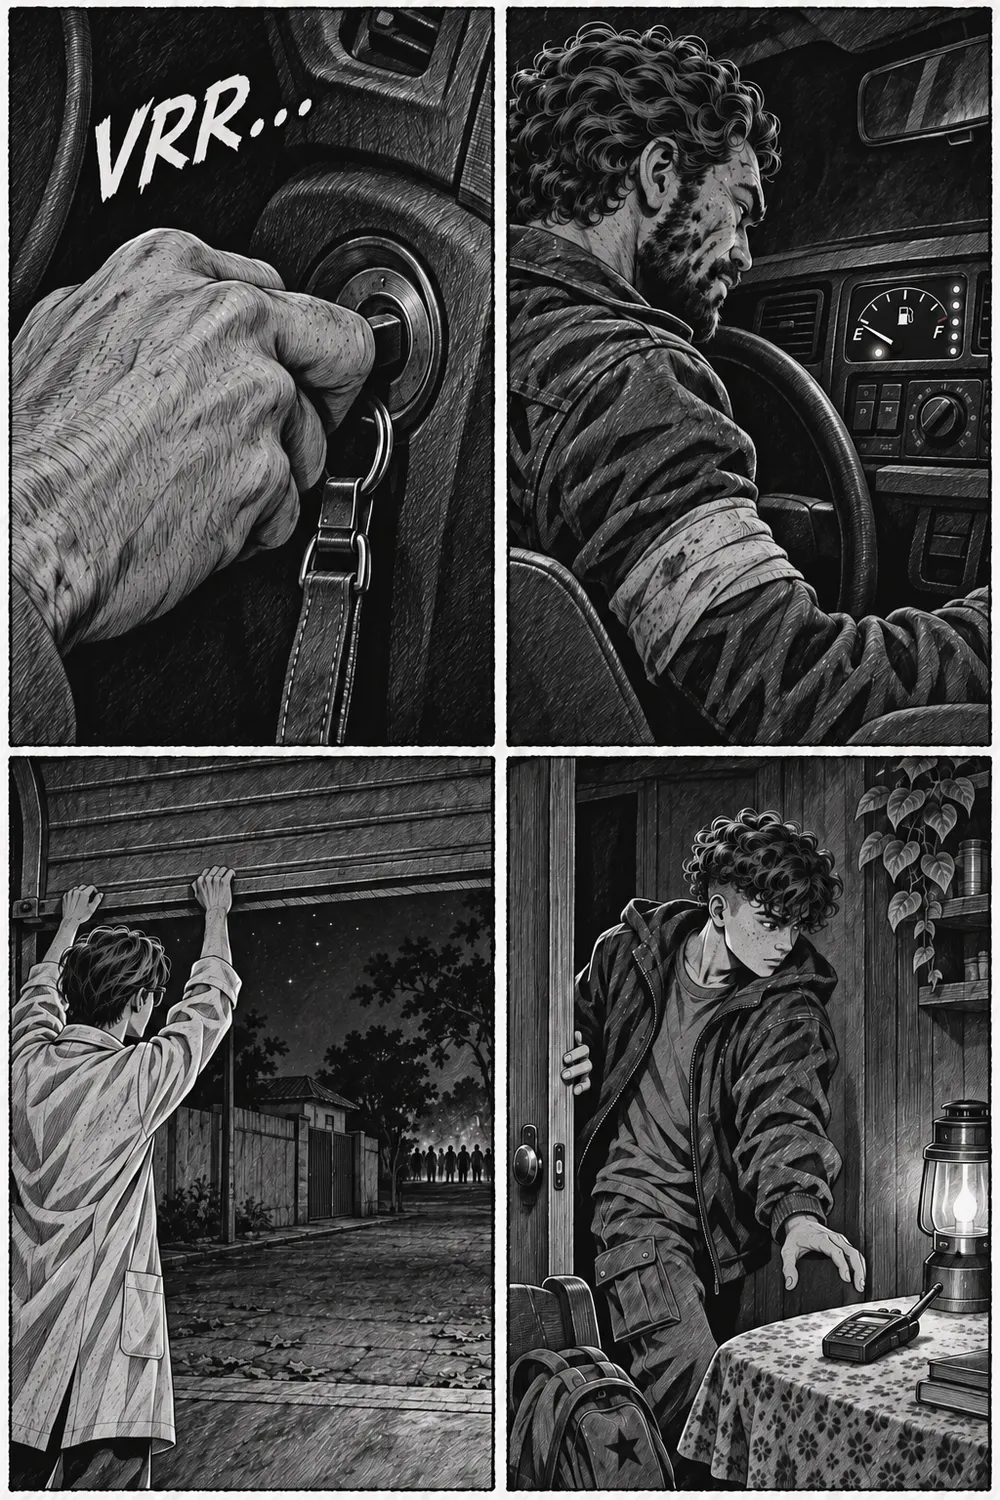
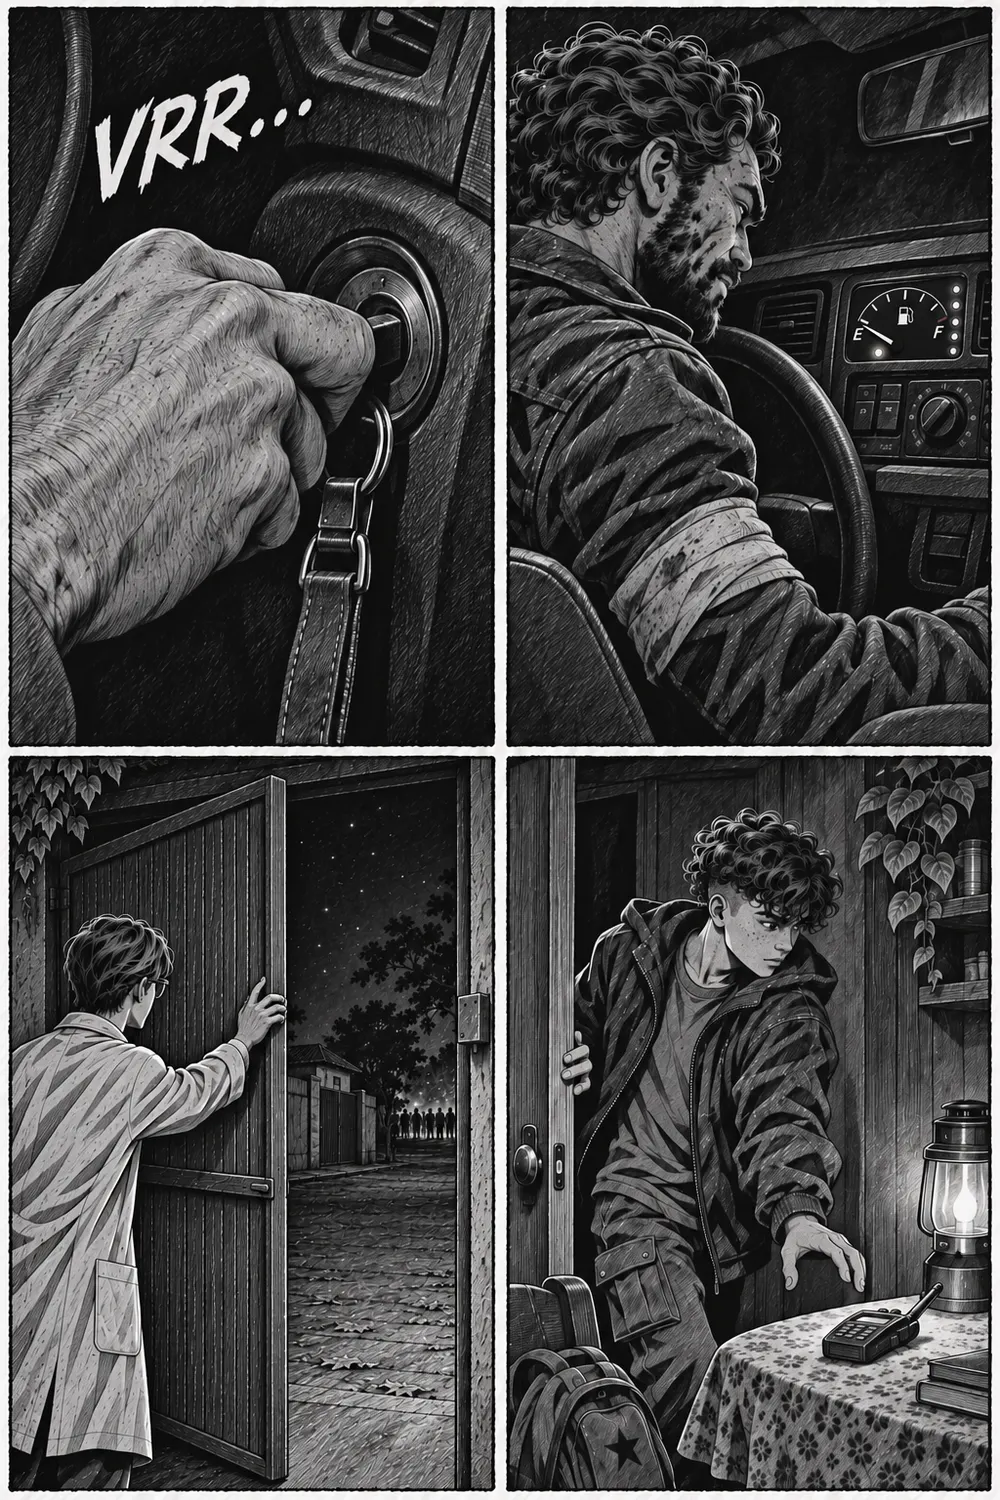
Revisar capítulo 8 e publicar capítulo 9

Changed region(s): [[0.0, 0.4907, 0.496, 1.0]]

diff --git a/catalogo.js b/catalogo.js
@@ -25,7 +25,7 @@ window.ESTANTE_INICIAL = [
     cover: "arte/capa-ultima-luz.jpg",
     summary: "O mundo conhecido acabou. Em meio a uma cidade tomada pelos mortos, sobreviver é só o começo.",
     // A ordem desta lista define a ordem em que as capas aparecem na tela de capítulos.
-    chapters: [chapter(1, "jpg", "Acorda, Celina"), chapter(2, "webp", "Vamos juntos"), chapter(3, "webp", "Reencontro sob cerco"), chapter(4, "webp", "O que resta"), chapter(5, "webp", "Uma noite de cada vez"), chapter(6, "webp", "Cada um por um lado"), chapter(7, "webp", "Do outro lado da grade"), chapter(8, "webp", "Antes do fim do mês")]
+    chapters: [chapter(1, "jpg", "Acorda, Celina"), chapter(2, "webp", "Vamos juntos"), chapter(3, "webp", "Reencontro sob cerco"), chapter(4, "webp", "O que resta"), chapter(5, "webp", "Uma noite de cada vez"), chapter(6, "webp", "Cada um por um lado"), chapter(7, "webp", "Do outro lado da grade"), chapter(8, "webp", "Antes do fim do mês"), chapter(9, "webp", "Depois do clarão")]
   },
   {
     // O livro de poesia usa uma imagem por página para preservar a diagramação do PDF.
